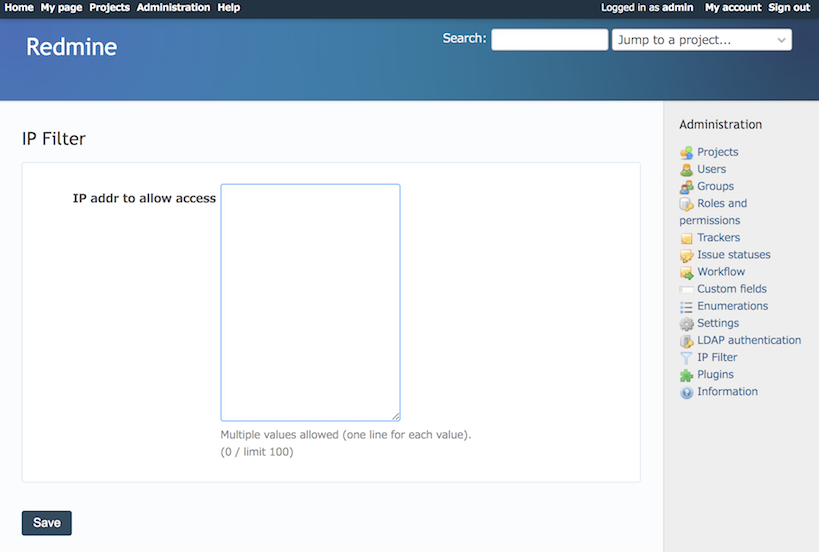
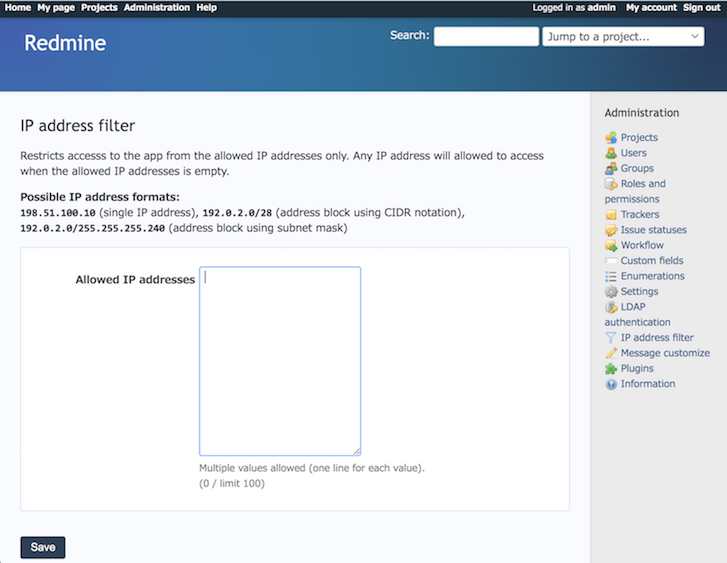
Change screen shot

diff --git a/README.ja.md b/README.ja.md
@@ -17,7 +17,7 @@ Redmineにフィルタリングモジュールを追加し、アクセス元のI
 
 フィルタリングルールの設定は、Redmineの管理者ページから操作します。
 
-![Setting Page](images/setting_page.png?raw=true "Setting Page on Redmine Admine Page")
+![Setting Page](images/setting_page.ja.png?raw=true "Setting Page on Redmine Admine Page")
 
 ホストアドレスやネットワークアドレスをフィルタリングルールに指定することができます。
 Redmineの管理画面を操作しているアクセス元IPアドレスは、フィルタリングルールに含まれている必要があります。
